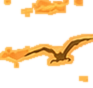
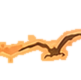
Auth screen: cool the sky back to violet, amplify every effect, fix stale-cache bug
The sky was still too yellow because the artwork itself is very warm (red
exceeds blue by up to 154), not because of a leftover overlay. Warm lamplight
on a warm field has almost no contrast, which is why the twinkle read as
faint. Added a sky grade derived from the artwork: pulls back the yellow
saturation, lifts toward the violet the painting already has in its upper
corners, adds a little contrast, and explicitly protects the sun and its
bloom so they stay golden. Masked to bright sky only, so the city and
mountain silhouettes keep their colour and gain contrast against it. This one
is always on rather than gated on motion - it is the intended look now, not
an effect. Shipped as a cropped WebP (~150KB); the full-frame PNG was 2.7MB.

Amplified everything now that there is contrast to work against: twinkle
swing 0.08-0.95, ripples roughly doubled and faster, ship bob nearly doubled
(re-verified at 4x zoom that the patches still show no ghosting at the larger
displacement), birds ~30% faster.

Three bugs found and fixed on the way:
- The grade overlay stored the already-blended result while also carrying the
  mask as alpha, so the browser blended it a second time. The bird covers use
  the true final colour, so they no longer matched the sky around them. It
  now stores the pure graded colour.
- The bird sprites were opaque out to their corners: the crop boxes clip
  cloud edges, which differ from the local background as much as a bird does,
[…]

diff --git a/index.html b/index.html
@@ -987,7 +987,22 @@ mark.hl-highlight{background:rgba(212,175,55,0.38);color:var(--text);border-radi
 .motion-on .auth-env-fx{opacity:1;}
 .auth-env-fx > i{position:absolute;display:block;will-change:transform;}
 
-/* NOTE: there is deliberately no sky/atmosphere effect. Two were tried and both removed.
+/* Sky grade — NOT an animation. The painted sky is very warm (red exceeds blue by up to
+   154), and warm lamplight on a warm field has almost no contrast, so the twinkling
+   lights had nothing to read against. This cools the sky back toward the violet the
+   artwork has in its upper corners, pulls back the yellow saturation and adds a little
+   contrast, while explicitly protecting the sun and its bloom so they stay golden. The
+   mask is bright-sky-only, so the dark city and mountain silhouettes keep their original
+   colour and gain contrast against the cooler sky behind them.
+   Deliberately always on, not gated on .motion-on: this is the intended look now, not an
+   effect, so it applies to the static fallback too. Shipped as a cropped WebP (~170KB);
+   the full-frame PNG was 2.7MB, which is not worth it on a phone. */
+#auth-env-skygrade{
+  position:absolute;top:0;left:0;width:100%;height:50%;
+  pointer-events:none;object-fit:fill;
+}
+
+/* NOTE: there is deliberately no *animated* sky effect. Two were tried and both removed.
    A painted cloud cannot move, so all an overlay can do is change the light level over it,
    and a level change with no edge to track is essentially imperceptible - confirmed by
    three viewers. Worse, the warm overlays needed to make it noticeable at all tinted the
@@ -1013,8 +1028,8 @@ mark.hl-highlight{background:rgba(212,175,55,0.38);color:var(--text);border-radi
    applied at full-stage size so its coordinates line up with the artwork exactly. */
 #auth-env-ripple, #auth-env-ripple2{
   inset:0;
-  -webkit-mask-image:url('assets/env-water-mask.png');
-  mask-image:url('assets/env-water-mask.png');
+  -webkit-mask-image:url('assets/env-water-mask.png?v=3');
+  mask-image:url('assets/env-water-mask.png?v=3');
   -webkit-mask-size:100% 100%;
   mask-size:100% 100%;
   -webkit-mask-repeat:no-repeat;
@@ -1024,14 +1039,14 @@ mark.hl-highlight{background:rgba(212,175,55,0.38);color:var(--text);border-radi
 #auth-env-ripple{mix-blend-mode:overlay;}
 #auth-env-ripple > i{
   background:repeating-linear-gradient(179deg,
-    rgba(255,252,238,0) 0px, rgba(255,252,238,0.17) 3px, rgba(255,252,238,0) 9px);
-  animation:auth-ripple-a 3.1s linear infinite;
+    rgba(255,252,238,0) 0px, rgba(255,252,238,0.30) 3px, rgba(255,252,238,0) 9px);
+  animation:auth-ripple-a 2.6s linear infinite;
 }
 #auth-env-ripple2{mix-blend-mode:soft-light;}
 #auth-env-ripple2 > i{
   background:repeating-linear-gradient(181deg,
-    rgba(255,246,222,0) 0px, rgba(255,246,222,0.20) 4px, rgba(255,246,222,0) 14px);
-  animation:auth-ripple-b 4.7s linear infinite;
+    rgba(255,246,222,0) 0px, rgba(255,246,222,0.34) 4px, rgba(255,246,222,0) 14px);
+  animation:auth-ripple-b 3.9s linear infinite;
 }
 @keyframes auth-ripple-a{from{transform:translate3d(0,0,0);}to{transform:translate3d(0,9px,0);}}
 @keyframes auth-ripple-b{from{transform:translate3d(0,0,0);}to{transform:translate3d(0,14px,0);}}
@@ -1044,13 +1059,13 @@ mark.hl-highlight{background:rgba(212,175,55,0.38);color:var(--text);border-radi
    half size. Animations are gated on .motion-on because an opacity animation would
    otherwise override .auth-env-fx's opacity:0 and leak through with motion disabled. */
 .auth-env-lights{
-  inset:0;background:rgba(255,182,96,0.72);mix-blend-mode:screen;
+  inset:0;background:rgba(255,196,112,0.95);mix-blend-mode:screen;
   -webkit-mask-size:100% 100%;mask-size:100% 100%;
   -webkit-mask-repeat:no-repeat;mask-repeat:no-repeat;
 }
-#auth-env-lights-1{-webkit-mask-image:url('assets/env-lights-1.png');mask-image:url('assets/env-lights-1.png');}
-#auth-env-lights-2{-webkit-mask-image:url('assets/env-lights-2.png');mask-image:url('assets/env-lights-2.png');}
-#auth-env-lights-3{-webkit-mask-image:url('assets/env-lights-3.png');mask-image:url('assets/env-lights-3.png');}
+#auth-env-lights-1{-webkit-mask-image:url('assets/env-lights-1.png?v=3');mask-image:url('assets/env-lights-1.png?v=3');}
+#auth-env-lights-2{-webkit-mask-image:url('assets/env-lights-2.png?v=3');mask-image:url('assets/env-lights-2.png?v=3');}
+#auth-env-lights-3{-webkit-mask-image:url('assets/env-lights-3.png?v=3');mask-image:url('assets/env-lights-3.png?v=3');}
 .motion-on #auth-env-lights-1{animation:auth-twinkle 5.3s ease-in-out infinite;}
 .motion-on #auth-env-lights-2{animation:auth-twinkle 7.1s ease-in-out infinite -2.6s;}
 .motion-on #auth-env-lights-3{animation:auth-twinkle 9.7s ease-in-out infinite -5.1s;}
@@ -1058,7 +1073,7 @@ mark.hl-highlight{background:rgba(212,175,55,0.38);color:var(--text);border-radi
    swing is wide (0.10 -> 1) on purpose: a narrow range was reported as barely noticeable,
    and what makes a twinkle read is the contrast between dim and bright, not the peak. */
 @keyframes auth-twinkle{
-  0%{opacity:.10;}19%{opacity:.68;}34%{opacity:.22;}52%{opacity:.60;}68%{opacity:.14;}84%{opacity:.48;}100%{opacity:.10;}
+  0%{opacity:.08;}19%{opacity:.95;}34%{opacity:.24;}52%{opacity:.82;}68%{opacity:.14;}84%{opacity:.66;}100%{opacity:.08;}
 }
 
 /* Ships — each is a patch cut from the canonical image containing the ship, its masts and
@@ -1080,16 +1095,16 @@ mark.hl-highlight{background:rgba(212,175,55,0.38);color:var(--text);border-radi
 .motion-on #auth-env-ship-b > img{animation:auth-bob-b 5.6s ease-in-out infinite -1.7s;}
 .motion-on #auth-env-ship-c > img{animation:auth-bob-c 3.7s ease-in-out infinite -0.9s;}
 @keyframes auth-bob-a{
-  0%,100%{transform:translate3d(0,-1.6%,0) rotate(-0.30deg);}
-  50%{transform:translate3d(0,1.6%,0) rotate(0.30deg);}
+  0%,100%{transform:translate3d(0,-3.0%,0) rotate(-0.62deg);}
+  50%{transform:translate3d(0,3.0%,0) rotate(0.62deg);}
 }
 @keyframes auth-bob-b{
-  0%,100%{transform:translate3d(0,1.5%,0) rotate(0.34deg);}
-  50%{transform:translate3d(0,-1.5%,0) rotate(-0.34deg);}
+  0%,100%{transform:translate3d(0,2.8%,0) rotate(0.68deg);}
+  50%{transform:translate3d(0,-2.8%,0) rotate(-0.68deg);}
 }
 @keyframes auth-bob-c{
-  0%,100%{transform:translate3d(0,-1.2%,0) rotate(0.22deg);}
-  50%{transform:translate3d(0,1.2%,0) rotate(-0.22deg);}
+  0%,100%{transform:translate3d(0,-2.2%,0) rotate(0.46deg);}
+  50%{transform:translate3d(0,2.2%,0) rotate(-0.46deg);}
 }
 
 /* Birds — the one element that has to move, since a frozen bird in mid-air breaks the
@@ -1106,11 +1121,11 @@ mark.hl-highlight{background:rgba(212,175,55,0.38);color:var(--text);border-radi
 .auth-env-birdcover, .auth-env-bird{position:absolute;pointer-events:none;opacity:0;}
 .motion-on .auth-env-birdcover, .motion-on .auth-env-bird{opacity:1;}
 #auth-env-birdcover-1, #auth-env-bird-1{left:69.4%;top:13.4%;width:12.1%;height:6.6%;}
-#auth-env-birdcover-2, #auth-env-bird-2{left:60.6%;top:31.2%;width:10.8%;height:4.8%;}
+#auth-env-birdcover-2, #auth-env-bird-2{left:61.2%;top:31.5%;width:9.6%;height:4.3%;}
 .auth-env-birdcover > img, .auth-env-bird > img{width:100%;height:100%;display:block;}
 .auth-env-bird > img{will-change:transform;}
-.motion-on #auth-env-bird-1 > img{animation:auth-glide-1 31s ease-in-out infinite alternate;}
-.motion-on #auth-env-bird-2 > img{animation:auth-glide-2 43s ease-in-out infinite alternate;}
+.motion-on #auth-env-bird-1 > img{animation:auth-glide-1 21s ease-in-out infinite alternate;}
+.motion-on #auth-env-bird-2 > img{animation:auth-glide-2 29s ease-in-out infinite alternate;}
 @keyframes auth-glide-1{
   0%{transform:translate3d(6%,4%,0) rotate(1.1deg);}
   100%{transform:translate3d(-124%,-16%,0) rotate(-1.6deg);}
@@ -1319,8 +1334,9 @@ mark.hl-highlight{background:rgba(212,175,55,0.38);color:var(--text);border-radi
 <div id="auth-screen">
   <div id="auth-env-stage">
     <img id="auth-env-flat" src="assets/auth-bg-environment.png" alt="">
-    <div class="auth-env-birdcover" id="auth-env-birdcover-1"><img src="assets/env-birdcover-1.png" alt=""></div>
-    <div class="auth-env-birdcover" id="auth-env-birdcover-2"><img src="assets/env-birdcover-2.png" alt=""></div>
+    <img id="auth-env-skygrade" src="assets/env-sky-grade.webp?v=3" alt="">
+    <div class="auth-env-birdcover" id="auth-env-birdcover-1"><img src="assets/env-birdcover-1.png?v=3" alt=""></div>
+    <div class="auth-env-birdcover" id="auth-env-birdcover-2"><img src="assets/env-birdcover-2.png?v=3" alt=""></div>
     <div class="auth-env-fx" id="auth-env-ripple"><i></i></div>
     <div class="auth-env-fx" id="auth-env-ripple2"><i></i></div>
     <div class="auth-env-fx auth-env-lights" id="auth-env-lights-1"></div>
@@ -1329,8 +1345,8 @@ mark.hl-highlight{background:rgba(212,175,55,0.38);color:var(--text);border-radi
     <div class="auth-env-ship" id="auth-env-ship-a"><img src="assets/env-ship-a.png" alt=""></div>
     <div class="auth-env-ship" id="auth-env-ship-b"><img src="assets/env-ship-b.png" alt=""></div>
     <div class="auth-env-ship" id="auth-env-ship-c"><img src="assets/env-ship-c.png" alt=""></div>
-    <div class="auth-env-bird" id="auth-env-bird-1"><img src="assets/env-bird-1.png" alt=""></div>
-    <div class="auth-env-bird" id="auth-env-bird-2"><img src="assets/env-bird-2.png" alt=""></div>
+    <div class="auth-env-bird" id="auth-env-bird-1"><img src="assets/env-bird-1.png?v=3" alt=""></div>
+    <div class="auth-env-bird" id="auth-env-bird-2"><img src="assets/env-bird-2.png?v=3" alt=""></div>
     <div class="auth-lantern-glow" id="auth-lantern-glow-1"></div>
     <div class="auth-lantern-glow" id="auth-lantern-glow-2"></div>
   </div>

diff --git a/service-worker.js b/service-worker.js
@@ -2,7 +2,7 @@
 // data calls or the supabase-js CDN script — those are never intercepted
 // below, by construction (only exact app-shell URLs are matched).
 
-const CACHE_VERSION = 'storymap-shell-v2';
+const CACHE_VERSION = 'storymap-shell-v3';
 
 const APP_SHELL_PATHS = [
   './',
@@ -33,7 +33,18 @@ self.addEventListener('fetch', (event) => {
   if (event.request.method !== 'GET') return;
   if (!APP_SHELL_URLS.includes(event.request.url)) return; // let everything else (Supabase, CDN, fonts) hit the network normally
 
+  // Network-first for the app shell, falling back to cache when offline. This used to be
+  // cache-first, which meant a returning user kept running whatever index.html was cached
+  // at install time and never saw a deploy until CACHE_VERSION happened to change — the
+  // cause of repeatedly "not seeing" shipped changes. Offline still works: the fetch
+  // rejects and we serve the cached copy.
   event.respondWith(
-    caches.match(event.request).then((cached) => cached || fetch(event.request))
+    fetch(event.request)
+      .then((response) => {
+        const copy = response.clone();
+        caches.open(CACHE_VERSION).then((cache) => cache.put(event.request, copy));
+        return response;
+      })
+      .catch(() => caches.match(event.request))
   );
 });
